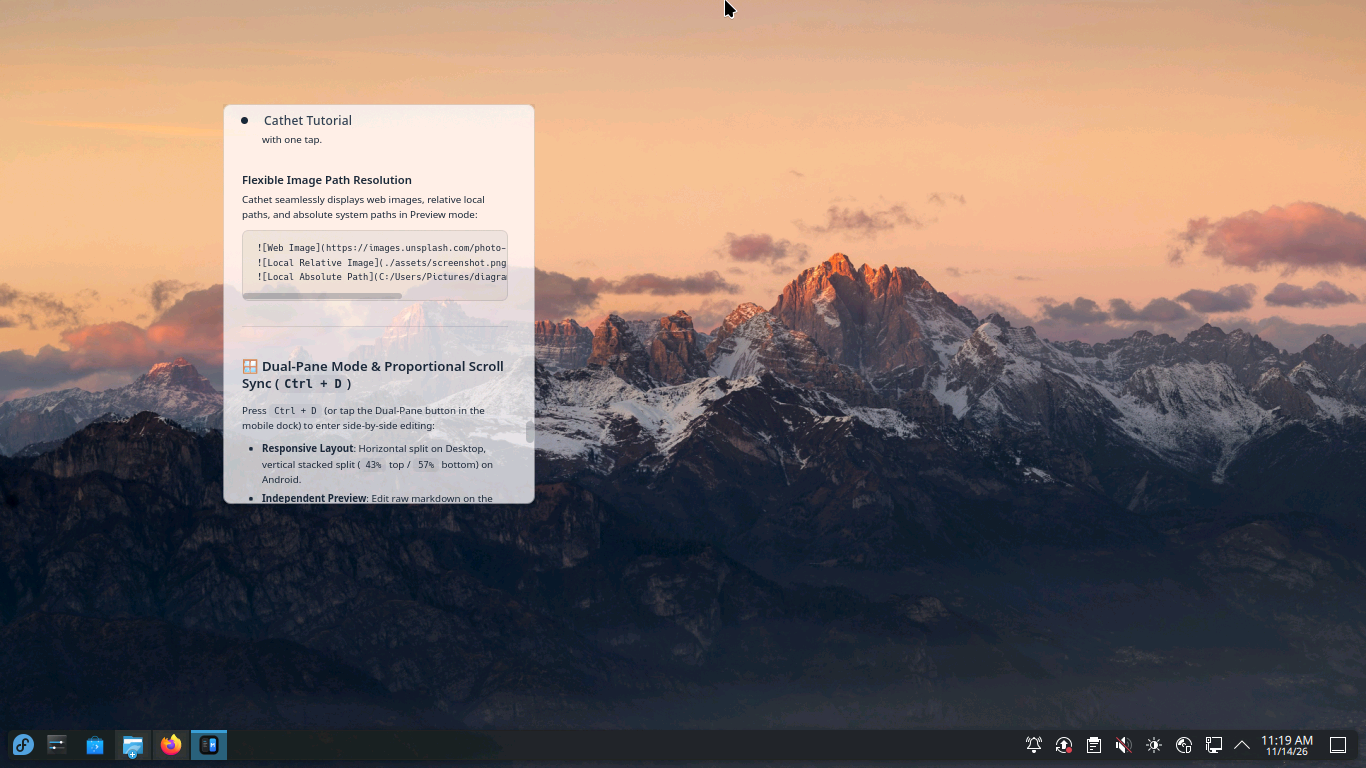
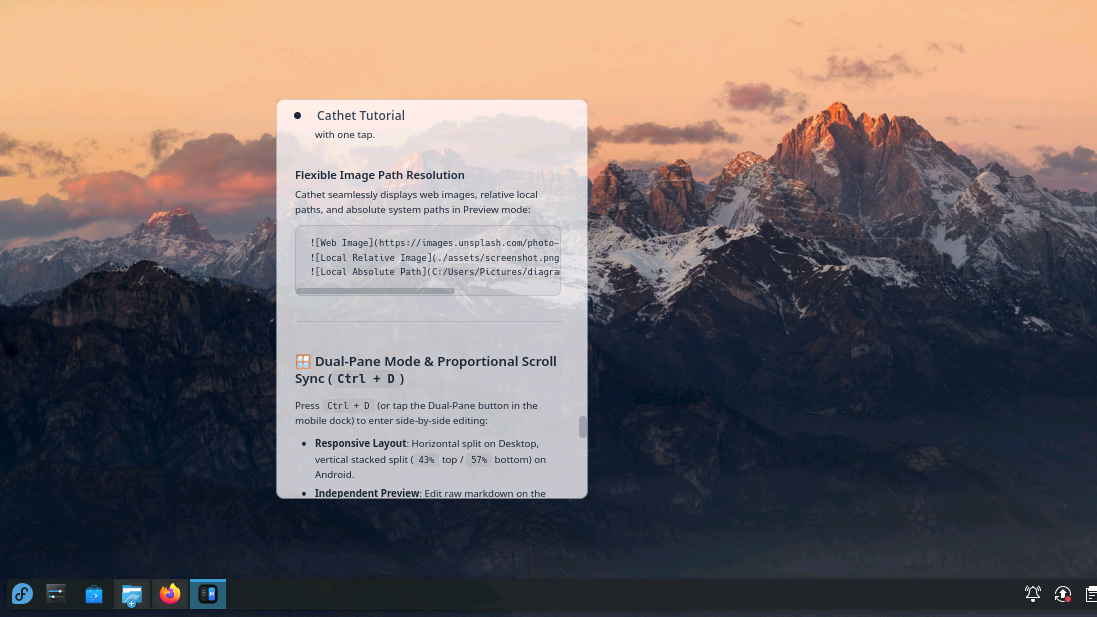
docs: update screenshot references and add new image assets in README

diff --git a/README.md b/README.md
@@ -203,13 +203,13 @@ Cathet on Android brings desktop-class markdown editing to your phone with high-
       <td width="33%" align="center">
         <!--
         📸 SCREENSHOT SPEC #10: ANDROID HOME DASHBOARD
-        - Target File: docs/screenshots/android-home-dashboard.png
+        - Target File: docs/screenshots/android-home-dashboard.jpg
         - Platform: Android Phone (API 24+)
         - Theme: Dark Mode
         - Aspect Ratio: 1080x2400 (Mobile Portrait 9:20)
         - State to Capture: Android Notes Home view (`HomeView`). Folder category tabs (`All`, `Work`, `Personal`), search bar, note tiles with tag pills, and circular floating `+` action button.
         -->
-        <img src="docs/screenshots/android-home-dashboard.png" alt="Android Notes Home Dashboard" width="270" style="border-radius: 14px; box-shadow: 0 10px 28px rgba(0,0,0,0.35);" /><br/>
+        <img src="docs/screenshots/android-home-dashboard.jpg" alt="Android Notes Home Dashboard" width="270" style="border-radius: 14px; box-shadow: 0 10px 28px rgba(0,0,0,0.35);" /><br/>
         <b>1. Notes Home Dashboard</b>
       </td>
       <td width="33%" align="center">
@@ -227,13 +227,13 @@ Cathet on Android brings desktop-class markdown editing to your phone with high-
       <td width="33%" align="center">
         <!--
         📸 SCREENSHOT SPEC #12: ANDROID HOME MULTISELECT
-        - Target File: docs/screenshots/android-home-multiselect.png
+        - Target File: docs/screenshots/android-home-multiselect.webp
         - Platform: Android Phone
         - Theme: Dark Mode
         - Aspect Ratio: 1080x2400 (Mobile Portrait 9:20)
         - State to Capture: Multi-select batch mode active on Notes Home. Top action bar showing item count, Pin, Hide, Move, Delete icons; multiple note tiles selected with checkmark badges.
         -->
-        <img src="docs/screenshots/android-home-multiselect.png" alt="Android Notes Multi-Select Batch Bar" width="270" style="border-radius: 14px; box-shadow: 0 10px 28px rgba(0,0,0,0.35);" /><br/>
+        <img src="docs/screenshots/android-home-multiselect.webp" alt="Android Notes Multi-Select Batch Bar" width="270" style="border-radius: 14px; box-shadow: 0 10px 28px rgba(0,0,0,0.35);" /><br/>
         <b>3. Multi-Select Batch Actions</b>
       </td>
     </tr>
@@ -304,13 +304,13 @@ Access Settings via `Ctrl + ,` (or the top-left `●` dot) on Desktop, or tap th
       <td width="50%" align="center">
         <!--
         📸 SCREENSHOT SPEC #06: WINDOWS SETTINGS MODAL
-        - Target File: docs/screenshots/windows-settings-modal.png
+        - Target File: docs/screenshots/windows-settings-modal.webp
         - Platform: Windows 11 Desktop
         - Theme: Dark Mode
         - Aspect Ratio: 700x636 (2x scale of canonical 350x318 window)
         - State to Capture: Dedicated frosted glass Settings window (`settings.html`) open to Personalization tab. Dark/Light theme toggle, font family select, backdrop options, and Always on Top toggle.
         -->
-        <img src="docs/screenshots/windows-settings-modal.png" alt="Windows Desktop Settings Window" width="440" style="border-radius: 8px; box-shadow: 0 8px 24px rgba(0,0,0,0.3);" /><br/>
+        <img src="docs/screenshots/windows-settings-modal.webp" alt="Windows Desktop Settings Window" width="440" style="border-radius: 8px; box-shadow: 0 8px 24px rgba(0,0,0,0.3);" /><br/>
         <b>Desktop Settings Window (350x318 Frosted Glass)</b>
       </td>
       <td width="50%" align="center">
@@ -457,13 +457,13 @@ For contributors or when refreshing screenshots, all image assets live in `docs/
 | 03 | `windows-preview-light.webp` | Windows 11 | Light | Rendered Markdown preview mode on light frosted glass |
 | 04 | `windows-dualpane-horizontal.webp` | Windows 11 | Dark | Side-by-side Dual-Pane mode (`Ctrl+D`) with splitter badge |
 | 05 | `windows-base64-pill-badge.webp` | Windows 11 | Dark | Collapsible `[ 📷 WEBP ~245 KB ▾ ]` pill badge inline with text |
-| 06 | `windows-settings-modal.png` | Windows 11 | Dark | Dedicated 350x318 frosted glass desktop Settings window |
+| 06 | `windows-settings-modal.webp` | Windows 11 | Dark | Dedicated 350x318 frosted glass desktop Settings window |
 | 07 | `windows-context-menu-glass.png` | Windows 11 | Dark | Custom frosted glass right-click context menu |
 | 08 | `linux-gnome-solid-slate.png` | Linux (GNOME) | Dark | WebKitGTK solid slate canvas (`#12141c`) default mode |
 | 09 | `linux-kde-translucent-blur.png` | Linux (KDE) | Dark | Translucent glass mode with KWin force-blur effect |
-| 10 | `android-home-dashboard.png` | Android | Dark | Notes Home dashboard with category tabs, search, and note cards |
+| 10 | `android-home-dashboard.jpg` | Android | Dark | Notes Home dashboard with category tabs, search, and note cards |
 | 11 | `android-vault-rotary-dial.webp` | Android | Dark | Mechanical rotary safe tumbler dial HUD during unlock gesture |
-| 12 | `android-home-multiselect.png` | Android | Dark | Notes Home multi-select mode with top action bar and selected cards |
+| 12 | `android-home-multiselect.webp` | Android | Dark | Notes Home multi-select mode with top action bar and selected cards |
 | 13 | `android-editor-gboard-image.webp` | Android | Dark | Gboard open pasting stickers/GIFs via Commit Content API |
 | 14 | `android-in-doc-search.webp` | Android | Dark | In-document search ribbon with CSS highlighted matches and keyboard open |
 | 15 | `android-dualpane-vertical.webp` | Android | Dark | Mobile vertical stacked dual-pane with touch dock controls |

diff --git a/history.md b/history.md
@@ -76,8 +76,8 @@ This document serves as the living project documentation and institutional memor
 ## Project Changes Log
 
 ### 2026-11-14: Convert `docs/show/` Showcase Videos to Animated WebP & Apply to `README.md`
-- **Summary**: Converted 10 `.mp4` screen recordings from `docs/show/` into looping animated `.webp` assets (`15 fps`, `libwebp` `q:v 75`, max `960px` desktop / `540px` mobile width) in `docs/screenshots/` via `ffmpeg`, copied/normalized 3 static showcase images (`hero-crossplatform-showcase.jpg`, `linux-kde-translucent-blur.png`, `windows-context-menu-glass.png`), removed the 11 superseded `.png` placeholders, and updated all `<img>` tags, spec comments, and inventory table entries in `README.md`.
-- **Affected Files**: `README.md`, `docs/screenshots/*` (13 updated assets), `history.md`
+- **Summary**: Converted 12 `.mp4` screen recordings from `docs/show/` into looping animated `.webp` assets (`15 fps`, `libwebp` `q:v 75`, max `960px` desktop / `540px` mobile width) in `docs/screenshots/` via `ffmpeg`, copied/normalized 4 static showcase images (`hero-crossplatform-showcase.jpg`, `android-home-dashboard.jpg`, `linux-kde-translucent-blur.png`, `windows-context-menu-glass.png`), removed the 14 superseded `.png` placeholders, and updated all `<img>` tags, spec comments, and inventory table entries in `README.md`.
+- **Affected Files**: `README.md`, `docs/screenshots/*` (16 updated assets), `history.md`
 
 ### 2026-11-13: Upgrade README Screenshot Placeholders with Visual Blueprint Cards
 - **Summary**: Upgraded all 17 blank black screenshot placeholders (`docs/screenshots/*.png`) into high-contrast, informative visual blueprint cards. Each card clearly displays its Spec Number (`📸 SCREENSHOT SPEC #01` to `#17`), target asset filename in bold monospace, platform badge (Windows 11, Linux Desktop, or Android Mobile), view description subtitle, and exact aspect ratio dimensions (960×540 for 16:9 landscape, 540×1170 for 9:19.5 portrait).
